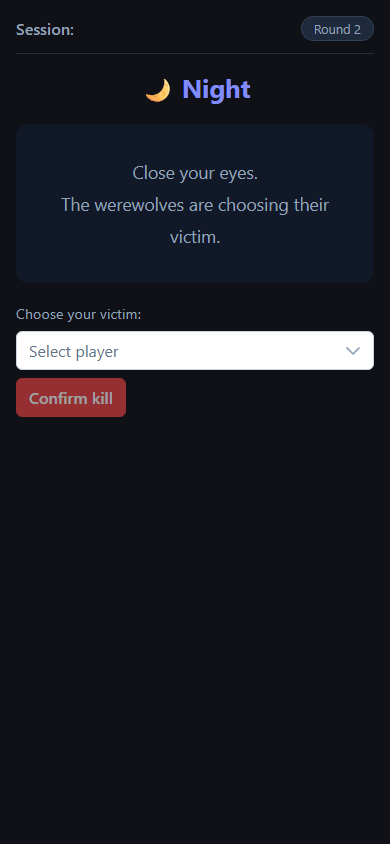
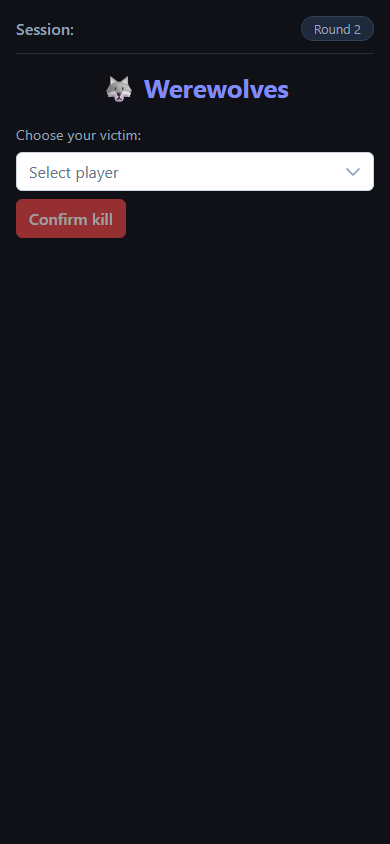
Apply feedback from easter test session

diff --git a/frontend/werewolves-app/src/app/components/session/session.html b/frontend/werewolves-app/src/app/components/session/session.html
@@ -74,7 +74,7 @@
   <!-- WEREWOLVES MEETING phase (round 1 – wolves look, no kill) -->
   <!-- ═══════════════════════════════════════════════════════ -->
   <div class="phase-content" *ngIf="phase === 'WerewolvesMeeting'">
-    <h2 class="phase-title night-title">🌙 Night</h2>
+    <h2 class="phase-title night-title">🐺 Werewolves</h2>
 
     <div class="night-instructions">
       <p *ngIf="roleDto?.role !== 'Werewolf'">Close your eyes! You are not a werewolf.</p>
@@ -105,10 +105,10 @@
   <!-- WEREWOLVES TURN phase (round 2+ – wolves choose victim)  -->
   <!-- ═══════════════════════════════════════════════════════ -->
   <div class="phase-content" *ngIf="phase === 'WerewolvesTurn'">
-    <h2 class="phase-title night-title">🌙 Night</h2>
+    <h2 class="phase-title night-title">🐺 Werewolves</h2>
 
-    <div class="night-instructions">
-      <p>Close your eyes.</p>
+    <div class="night-instructions" *ngIf="!canVoteNight">
+      <p>Keep your eyes closed.</p>
       <p>The werewolves are choosing their victim.</p>
     </div>
 
@@ -136,7 +136,8 @@
   <!-- ═══════════════════════════════════════════════════════ -->
   <div class="phase-content" *ngIf="phase === 'CupidTurn'">
     <h2 class="phase-title night-title">💘 Cupid</h2>
-    <p class="phase-subtitle">Cupid, wake up and choose two players to link as lovers.</p>
+    <p class="phase-subtitle" *ngIf="canActAsCupid">Wake up. Choose two players to link as lovers.</p>
+    <p class="phase-subtitle" *ngIf="!canActAsCupid">Keep your eyes closed. Cupid is choosing the lovers.</p>
 
     <div class="skill-action" *ngIf="canActAsCupid">
       <div class="action-row">
@@ -152,7 +153,6 @@
       <p-button label="Link lovers" (onClick)="submitCupidAction()"
         [disabled]="!cupidLover1 || !cupidLover2" styleClass="mt-2 w-full"></p-button>
     </div>
-    <p class="no-action-text" *ngIf="!canActAsCupid && !currentPlayer?.isEliminated">Cupid is choosing the lovers...</p>
   </div>
 
   <!-- ═══════════════════════════════════════════════════════ -->
@@ -184,7 +184,8 @@
   <!-- ═══════════════════════════════════════════════════════ -->
   <div class="phase-content" *ngIf="phase === 'SeerTurn'">
     <h2 class="phase-title night-title">🔮 The Seer</h2>
-    <p class="phase-subtitle">Seer, wake up and choose a player to reveal their true nature.</p>
+    <p class="phase-subtitle" *ngIf="canActAsSeer">Wake up. Pick a player to reveal their true nature.</p>
+    <p class="phase-subtitle" *ngIf="!canActAsSeer">Keep your eyes closed. The Seer is looking.</p>
 
     <div class="skill-action" *ngIf="canActAsSeer && !seerResult">
       <div class="action-row">
@@ -203,8 +204,6 @@
       </p>
       <p-button label="Done" (onClick)="markDone()" [disabled]="currentPlayer?.isDone" styleClass="mt-2 w-full"></p-button>
     </div>
-
-    <p class="no-action-text" *ngIf="!canActAsSeer && !currentPlayer?.isEliminated">The Seer is looking...</p>
   </div>
 
   <!-- ═══════════════════════════════════════════════════════ -->
@@ -212,7 +211,8 @@
   <!-- ═══════════════════════════════════════════════════════ -->
   <div class="phase-content" *ngIf="phase === 'WitchTurn'">
     <h2 class="phase-title night-title">🧪 The Witch</h2>
-    <p class="phase-subtitle">Witch, wake up. You may use a potion.</p>
+    <p class="phase-subtitle" *ngIf="canActAsWitch">Wake up. You may save the victim or poison someone.</p>
+    <p class="phase-subtitle" *ngIf="!canActAsWitch">Keep your eyes closed. The Witch is deciding.</p>
 
     <div class="skill-action" *ngIf="canActAsWitch">
       <p *ngIf="roleDto?.nightKillTargetName && !roleDto?.witchHealUsed" class="elimination-text">
@@ -230,8 +230,6 @@
         <p-button label="Do nothing" (onClick)="submitWitchAction('skip')" styleClass="p-button-text mt-2 w-full"></p-button>
       </div>
     </div>
-
-    <p class="no-action-text" *ngIf="!canActAsWitch && !currentPlayer?.isEliminated">The Witch is deciding...</p>
   </div>
 
   <!-- ═══════════════════════════════════════════════════════ -->
@@ -239,7 +237,8 @@
   <!-- ═══════════════════════════════════════════════════════ -->
   <div class="phase-content" *ngIf="phase === 'HunterTurn'">
     <h2 class="phase-title night-title">🏹 The Hunter</h2>
-    <p class="phase-subtitle">Hunter, you have been eliminated. Choose one player to take with you.</p>
+    <p class="phase-subtitle" *ngIf="canActAsHunter">You have been eliminated. Choose one player to take with you.</p>
+    <p class="phase-subtitle" *ngIf="!canActAsHunter">Waiting for the Hunter to take their final shot.</p>
 
     <div class="skill-action" *ngIf="canActAsHunter">
       <div class="action-row">
@@ -249,7 +248,6 @@
       </div>
       <p-button label="🏹 Shoot" (onClick)="submitHunterAction()" [disabled]="!hunterTarget" styleClass="p-button-danger mt-2 w-full"></p-button>
     </div>
-    <p class="no-action-text" *ngIf="!canActAsHunter">The Hunter is taking their final shot...</p>
   </div>
 
   <!-- ═══════════════════════════════════════════════════════ -->
@@ -303,10 +301,11 @@
     <div class="player-chips">
       <div *ngFor="let p of participatingPlayers" class="player-chip"
            [class.me]="p.playerId === playerId"
-           [class.eliminated]="p.isEliminated">
+           [class.eliminated]="p.isEliminated"
+           [class.has-voted]="p.currentVoteTargetId">
         <span>{{ p.displayName }}</span>
         <span class="eliminated-badge" *ngIf="p.isEliminated">💀</span>
-        <span class="done-indicator" *ngIf="p.isDone && !p.isEliminated">✓</span>
+        <span class="vote-arrow" *ngIf="p.currentVoteTargetId">→ {{ playerNameById(p.currentVoteTargetId) }}</span>
       </div>
     </div>
 
@@ -322,7 +321,7 @@
         appendTo="body">
       </p-select>
       <p-button
-        label="Cast vote"
+        label="Vote"
         (onClick)="submitVote()"
         [disabled]="!selectedVoteTarget"
         styleClass="mt-2">
@@ -331,14 +330,17 @@
 
     <!-- Done / ready -->
     <div class="ready-section">
-      <div class="done-count">{{ doneCount }} / {{ alivePlayers.length }} done</div>
-      <p-button
-        *ngIf="showDoneButton"
-        label="Done"
-        (onClick)="markDone()"
-        [disabled]="canVoteDay && !hasVotedThisPhase"
-        styleClass="p-button-outlined w-full mt-2">
-      </p-button>
+      <p class="end-discussion-hint" *ngIf="showDoneButton">Made up your mind? Let's end the discussion.</p>
+      <div class="end-discussion-row">
+        <p-button
+          *ngIf="showDoneButton"
+          label="End discussion"
+          (onClick)="markDone()"
+          [disabled]="canVoteDay && !hasVotedThisPhase"
+          styleClass="p-button-outlined">
+        </p-button>
+        <span class="done-count" *ngIf="doneCount > 0">{{ doneCount }} / {{ alivePlayers.length }}</span>
+      </div>
       <div class="done-badge" *ngIf="currentPlayer?.isDone">
         <i class="pi pi-check-circle"></i> Waiting...
       </div>

diff --git a/frontend/werewolves-app/src/app/components/session/session.spec.ts b/frontend/werewolves-app/src/app/components/session/session.spec.ts
@@ -58,6 +58,7 @@ describe('SessionComponent', () => {
         skill: null,
         isEliminated: false,
         isDone: false,
+        currentVoteTargetId: null,
         score: 0,
         totalScore: 0
       },
@@ -72,6 +73,7 @@ describe('SessionComponent', () => {
         skill: null,
         isEliminated: false,
         isDone: false,
+        currentVoteTargetId: null,
         score: 0,
         totalScore: 0
       }
@@ -268,9 +270,9 @@ describe('SessionComponent', () => {
         isPremium: false
       },
       players: [
-        { playerId: 'player1', displayName: 'Alice', isCreator: true, isModerator: true, isConnected: true, participationStatus: 'Participating', role: null, skill: null, isEliminated: false, isDone: false, score: 0, totalScore: 0 },
-        { playerId: 'player2', displayName: 'Bob', isCreator: false, isModerator: false, isConnected: true, participationStatus: 'Participating', role: null, skill: null, isEliminated: false, isDone: false, score: 0, totalScore: 0 },
-        { playerId: 'player3', displayName: 'Carol', isCreator: false, isModerator: false, isConnected: true, participationStatus: 'Participating', role: null, skill: null, isEliminated: false, isDone: false, score: 0, totalScore: 0 }
+        { playerId: 'player1', displayName: 'Alice', isCreator: true, isModerator: true, isConnected: true, participationStatus: 'Participating', role: null, skill: null, isEliminated: false, isDone: false, currentVoteTargetId: null, score: 0, totalScore: 0 },
+        { playerId: 'player2', displayName: 'Bob', isCreator: false, isModerator: false, isConnected: true, participationStatus: 'Participating', role: null, skill: null, isEliminated: false, isDone: false, currentVoteTargetId: null, score: 0, totalScore: 0 },
+        { playerId: 'player3', displayName: 'Carol', isCreator: false, isModerator: false, isConnected: true, participationStatus: 'Participating', role: null, skill: null, isEliminated: false, isDone: false, currentVoteTargetId: null, score: 0, totalScore: 0 }
       ],
       hasDuplicateNames: false
     });
@@ -293,7 +295,7 @@ describe('SessionComponent', () => {
       state.players.push({
         playerId: 'player4', displayName: 'Dave', isCreator: false, isModerator: false,
         isConnected: true, participationStatus: 'Participating', role: null, skill: null,
-        isEliminated: false, isDone: false, score: 0, totalScore: 0
+        isEliminated: false, isDone: false, currentVoteTargetId: null, score: 0, totalScore: 0
       });
       component.lobbyState = state;
       component.playerId = 'player1'; // Alice is NOT one of the tied candidates

diff --git a/frontend/werewolves-app/e2e/screenshots.spec.ts b/frontend/werewolves-app/e2e/screenshots.spec.ts
@@ -43,6 +43,7 @@ interface PlayerOverride {
   skill?: string | null;
   isEliminated?: boolean;
   isDone?: boolean;
+  currentVoteTargetId?: string | null;
   score?: number;
   totalScore?: number;
 }
@@ -64,6 +65,7 @@ function makePlayer(
     skill: overrides.skill ?? null,
     isEliminated: overrides.isEliminated ?? false,
     isDone: overrides.isDone ?? false,
+    currentVoteTargetId: overrides.currentVoteTargetId ?? null,
     score: overrides.score ?? 0,
     totalScore: overrides.totalScore ?? 0,
     joinedAt: '2026-03-17T10:00:00Z',
@@ -288,7 +290,7 @@ test('05-night-werewolves-meeting-villager', async ({ page }) => {
   await setupMocks(page, state, role);
   await setViewer(page, ALICE);
   await page.goto(`/game/${GAME_ID}/session`);
-  await page.waitForSelector('h2:has-text("Night")');
+  await page.waitForSelector('h2:has-text("Werewolves")');
   await shot(page, '05-night-werewolves-meeting-villager');
 });
 
@@ -299,7 +301,7 @@ test('06-night-werewolves-meeting-werewolf', async ({ page }) => {
   await setupMocks(page, state, role);
   await setViewer(page, BOB);
   await page.goto(`/game/${GAME_ID}/session`);
-  await page.waitForSelector('h2:has-text("Night")');
+  await page.waitForSelector('h2:has-text("Werewolves")');
   await shot(page, '06-night-werewolves-meeting-werewolf');
 });
 
@@ -310,7 +312,7 @@ test('07-night-werewolves-turn-villager', async ({ page }) => {
   await setupMocks(page, state, role);
   await setViewer(page, ALICE);
   await page.goto(`/game/${GAME_ID}/session`);
-  await page.waitForSelector('h2:has-text("Night")');
+  await page.waitForSelector('h2:has-text("Werewolves")');
   await shot(page, '07-night-werewolves-turn-villager');
 });
 
@@ -445,7 +447,13 @@ test('18-dawn-night-elimination', async ({ page }) => {
 
 // ── 19 · Discussion — alive player with vote selector ────────────────────────
 test('19-discussion', async ({ page }) => {
-  const state = makeGameState('Discussion', 2, { phaseEndsAt: new Date(Date.now() + 154 * 1000).toISOString() });
+  const players = BASE_PLAYERS.map(p => {
+    if (p.playerId === BOB)   return { ...p, currentVoteTargetId: DAVE };
+    if (p.playerId === CAROL) return { ...p, currentVoteTargetId: BOB };
+    if (p.playerId === EVE)   return { ...p, currentVoteTargetId: BOB };
+    return p;
+  });
+  const state = makeGameState('Discussion', 2, { phaseEndsAt: new Date(Date.now() + 154 * 1000).toISOString() }, players);
   const role = makeRoleDto('Villager');
   await setupMocks(page, state, role);
   await setViewer(page, ALICE);

diff --git a/frontend/werewolves-app/src/app/components/lobby/lobby.spec.ts b/frontend/werewolves-app/src/app/components/lobby/lobby.spec.ts
@@ -55,6 +55,7 @@ describe('LobbyComponent', () => {
         skill: null,
         isEliminated: false,
         isDone: false,
+        currentVoteTargetId: null,
         score: 0,
         totalScore: 0,
         joinedAt: new Date().toISOString()
@@ -70,6 +71,7 @@ describe('LobbyComponent', () => {
         skill: null,
         isEliminated: false,
         isDone: false,
+        currentVoteTargetId: null,
         score: 0,
         totalScore: 0,
         joinedAt: new Date().toISOString()
@@ -85,6 +87,7 @@ describe('LobbyComponent', () => {
         skill: null,
         isEliminated: false,
         isDone: false,
+        currentVoteTargetId: null,
         score: 0,
         totalScore: 0,
         joinedAt: new Date().toISOString()

diff --git a/frontend/werewolves-app/src/app/components/session/session.scss b/frontend/werewolves-app/src/app/components/session/session.scss
@@ -229,9 +229,24 @@
   align-items: center;
   gap: 0.5rem;
 
+  .end-discussion-hint {
+    font-size: 0.85rem;
+    color: #94a3b8;
+    text-align: left;
+    margin: 0;
+    align-self: flex-start;
+  }
+
+  .end-discussion-row {
+    display: flex;
+    align-items: center;
+    gap: 0.75rem;
+    align-self: flex-start;
+  }
+
   .done-count {
     font-size: 0.9rem;
-    color: #64748b;
+    color: #94a3b8;
   }
 
   .done-badge {
@@ -327,6 +342,14 @@
     .eliminated-badge { font-size: 0.85rem; }
 
     .done-indicator { color: #22c55e; font-size: 0.8rem; }
+
+    .vote-arrow {
+      font-size: 0.78rem;
+      color: #f59e0b;
+      font-weight: 500;
+    }
+
+    &.has-voted { border-color: #f59e0b44; }
   }
 }
 

diff --git a/frontend/werewolves-app/src/app/components/session/session.ts b/frontend/werewolves-app/src/app/components/session/session.ts
@@ -388,6 +388,10 @@ export class SessionComponent implements OnInit, OnDestroy {
     return this.lobbyState?.players.find(p => p.playerId === playerId)?.role ?? '?';
   }
 
+  playerNameById(playerId: string): string {
+    return this.lobbyState?.players.find(p => p.playerId === playerId)?.displayName ?? '?';
+  }
+
   goToLobby(): void {
     this.router.navigate(['/game', this.gameId, 'lobby']);
   }

diff --git a/frontend/werewolves-app/src/app/models/game.models.ts b/frontend/werewolves-app/src/app/models/game.models.ts
@@ -43,6 +43,7 @@ export interface PlayerState {
   skill: string | null;
   isEliminated: boolean;
   isDone: boolean;
+  currentVoteTargetId: string | null;
   score: number;
   totalScore: number;
   joinedAt?: string;

diff --git a/frontend/werewolves-app/src/app/components/join-game/join-game.spec.ts b/frontend/werewolves-app/src/app/components/join-game/join-game.spec.ts
@@ -52,6 +52,7 @@ describe('JoinGameComponent', () => {
         skill: null,
         isEliminated: false,
         isDone: false,
+        currentVoteTargetId: null,
         score: 0,
         totalScore: 0
       }

diff --git a/backend/WerewolvesAPI.Tests/GameServiceTests.cs b/backend/WerewolvesAPI.Tests/GameServiceTests.cs
@@ -85,6 +85,7 @@ public class GameServiceTests
 
         var leftPlayer = _gameService.GetGame(game.TournamentCode)!.Players.First(p => p.PlayerId == player.PlayerId);
         leftPlayer.ParticipationStatus.Should().Be(Models.ParticipationStatus.Left);
+        leftPlayer.IsConnected.Should().BeFalse();
     }
 
     [Fact]
@@ -95,8 +96,9 @@ public class GameServiceTests
 
         _gameService.RemovePlayer(game.TournamentCode, player!.PlayerId, game.CreatorId);
 
-        _gameService.GetGame(game.TournamentCode)!.Players.First(p => p.PlayerId == player.PlayerId)
-            .ParticipationStatus.Should().Be(Models.ParticipationStatus.Removed);
+        var removedPlayer = _gameService.GetGame(game.TournamentCode)!.Players.First(p => p.PlayerId == player.PlayerId);
+        removedPlayer.ParticipationStatus.Should().Be(Models.ParticipationStatus.Removed);
+        removedPlayer.IsConnected.Should().BeFalse();
     }
 
     [Fact]

diff --git a/backend/WerewolvesAPI/Controllers/GameController.cs b/backend/WerewolvesAPI/Controllers/GameController.cs
@@ -123,6 +123,7 @@ public class GameController : ControllerBase
                 Skill = p.Skill == PlayerSkill.None ? null : p.Skill.ToString(),
                 IsEliminated = p.IsEliminated,
                 IsDone = p.IsDone,
+                CurrentVoteTargetId = game.DayVotes.TryGetValue(p.PlayerId, out var voteTargetId) ? voteTargetId : null,
                 Score = p.Score,
                 TotalScore = p.TotalScore,
                 JoinedAt = p.JoinedAt

diff --git a/backend/WerewolvesAPI/DTOs/LobbyStateDto.cs b/backend/WerewolvesAPI/DTOs/LobbyStateDto.cs
@@ -48,6 +48,7 @@ public class PlayerDto
     public string? Skill { get; set; }
     public bool IsEliminated { get; set; }
     public bool IsDone { get; set; }
+    public string? CurrentVoteTargetId { get; set; }
     public int Score { get; set; }
     public int TotalScore { get; set; }
     public DateTime JoinedAt { get; set; }

diff --git a/docs-src/docs/game-concept.md b/docs-src/docs/game-concept.md
@@ -109,6 +109,10 @@ If a player is a lover, their partner's name appears on the card when held down.
 
 After the first night — once the Lover Reveal has concluded (or the Werewolves Meeting if Cupid is not enabled) — the first day discussion begins immediately. No one has been killed yet, so there is no dawn announcement. Players discuss freely, sharing suspicions and defending themselves. Every player — including those already eliminated — casts one vote for who they believe is a werewolf. A countdown timer governs the discussion period.
 
+Each player's current vote is shown live on their chip as an arrow (e.g. **Alice → Bob**), making alliances and suspicions immediately visible and fuelling the discussion.
+
+When a player has made up their mind and wants to wrap up early, they can press **End discussion**. How many players have pressed this is shown next to the button (e.g. `3 / 8`), but only once at least one player has done so — the counter stays hidden otherwise so it does not invite premature use.
+
 <div style="display:flex;gap:1rem;align-items:flex-start">
   <figure style="flex:1;margin:0"><figcaption><strong>Alive player</strong></figcaption><img src="../screenshots/19-discussion.png" alt="Discussion — alive player with vote controls"></figure>
   <figure style="flex:1;margin:0"><figcaption><strong>Eliminated player</strong></figcaption><img src="../screenshots/19b-discussion-eliminated.png" alt="Discussion — eliminated player can still vote"></figure>
